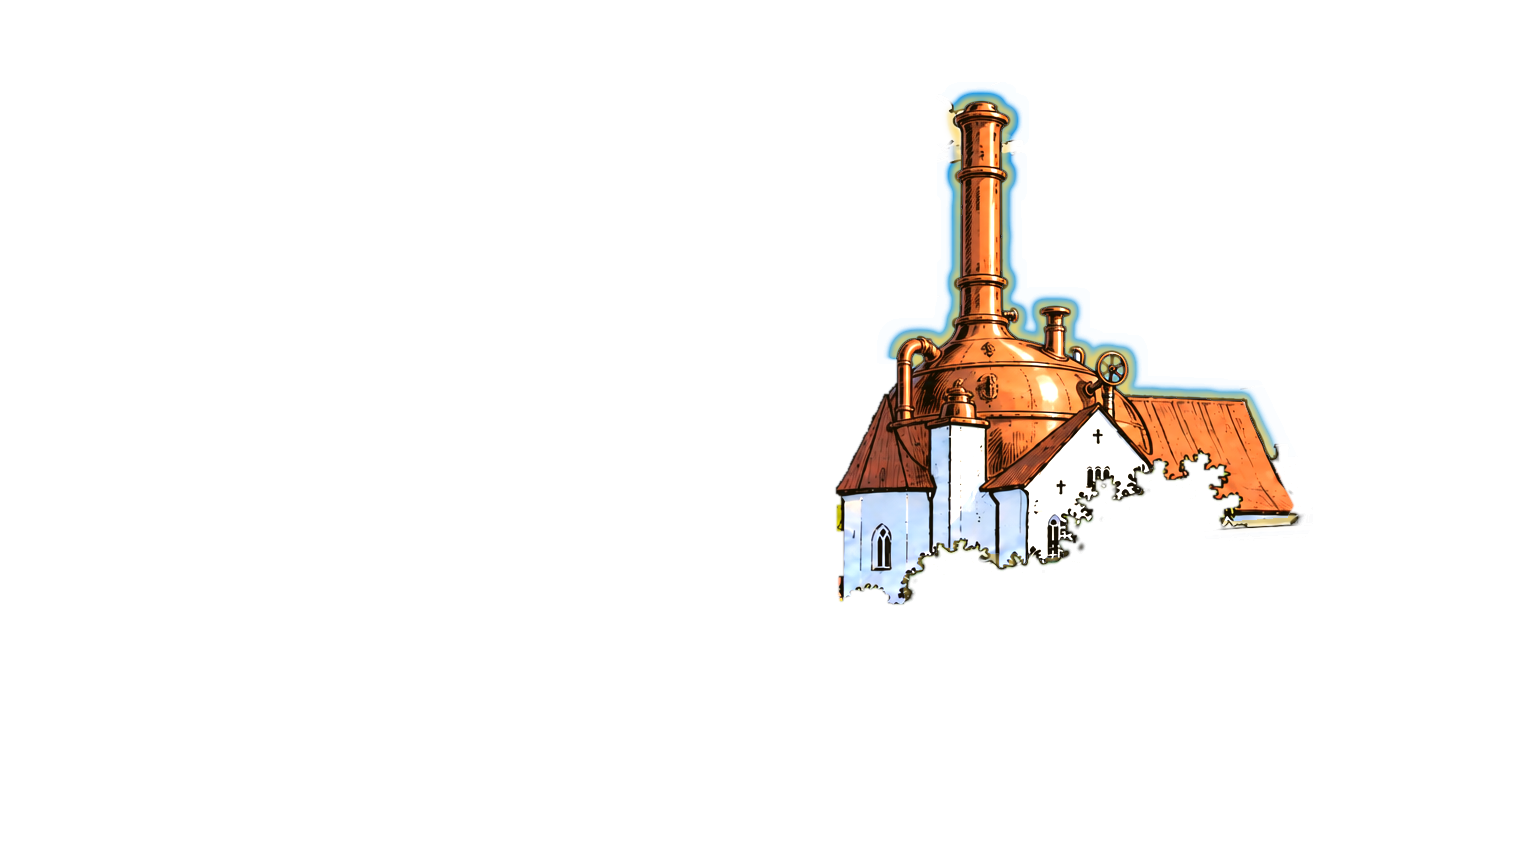
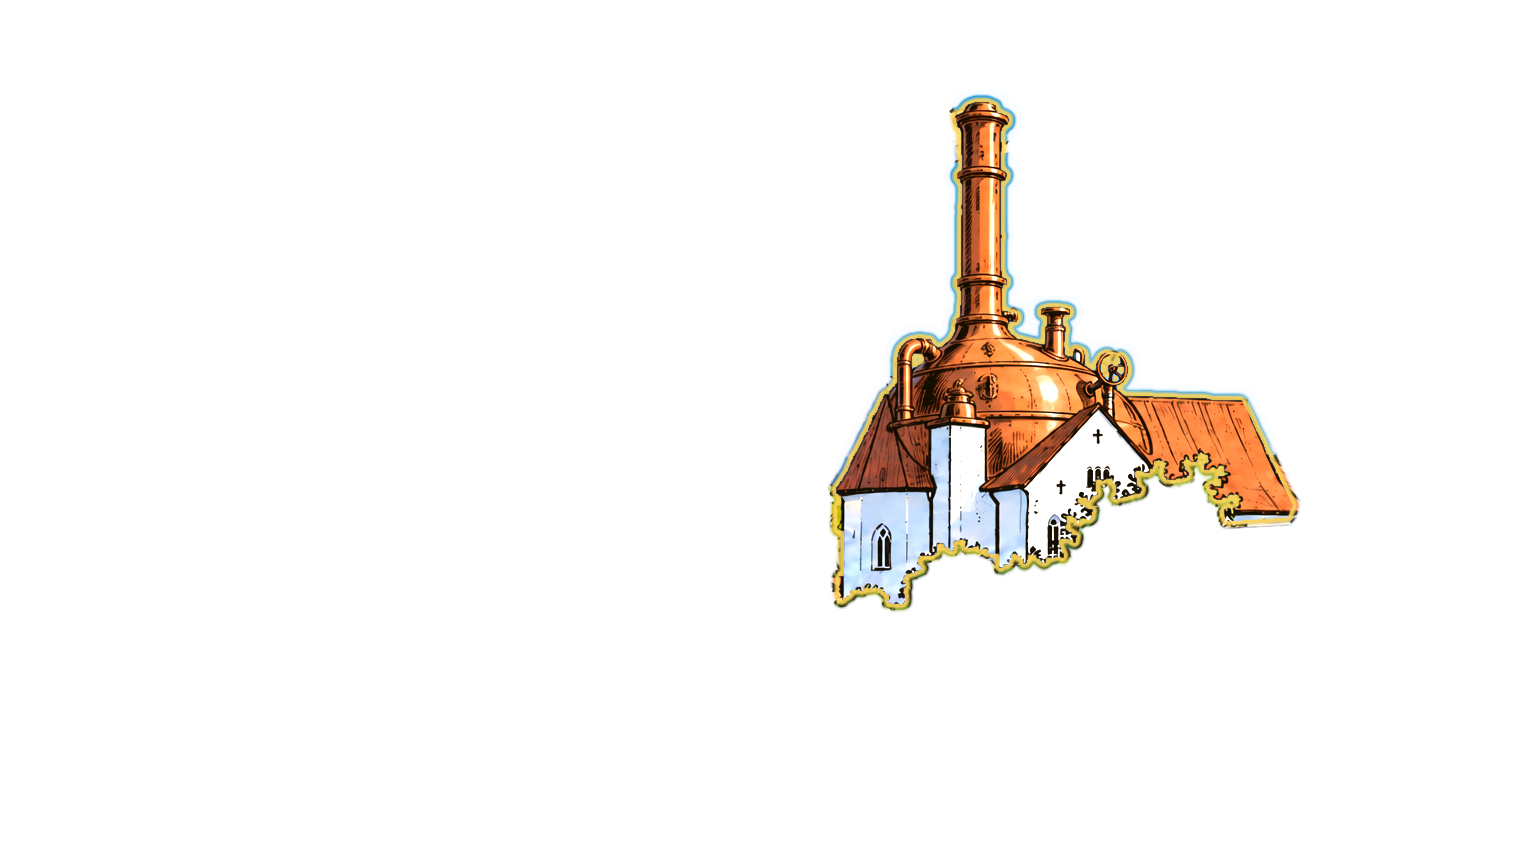
Base: brewery church glow hugs its whole outline (left roof and wall, bush line, right roof end)
Claude-Session: https://claude.ai/code/session_01GrbNTwVienMcpmsk1Pgq12

Changed region(s): [[0.5625, 0.0938, 0.8125, 0.5], [0.5312, 0.4688, 0.8438, 0.7188]]

diff --git a/guides/DESIGNER_MANUAL.md b/guides/DESIGNER_MANUAL.md
@@ -4426,7 +4426,7 @@ picture and see-through everywhere but the building, so it lies over the
 background in the same place on any screen. Only the building takes the
 click (not the sky, trees or bushes in front). `<Village Art>_hover.png`, if
 there, is shown while the mouse is on it: the building brighter with a warm
-golden glow that goes only into the sky. **The church with the copper kettle
+golden glow hugging its outline all the way round (roof, walls, the bush line in front), kept tight so it does not spread into the mountains. **The church with the copper kettle
 is the Brewery** (`brewery_church`). The other buildings keep their old
 bird's-eye pictures at their old spots until each is drawn for the village.
 Cut-outs are made by `art_tool/base/brewery_hover/make_game_pieces.py`.
